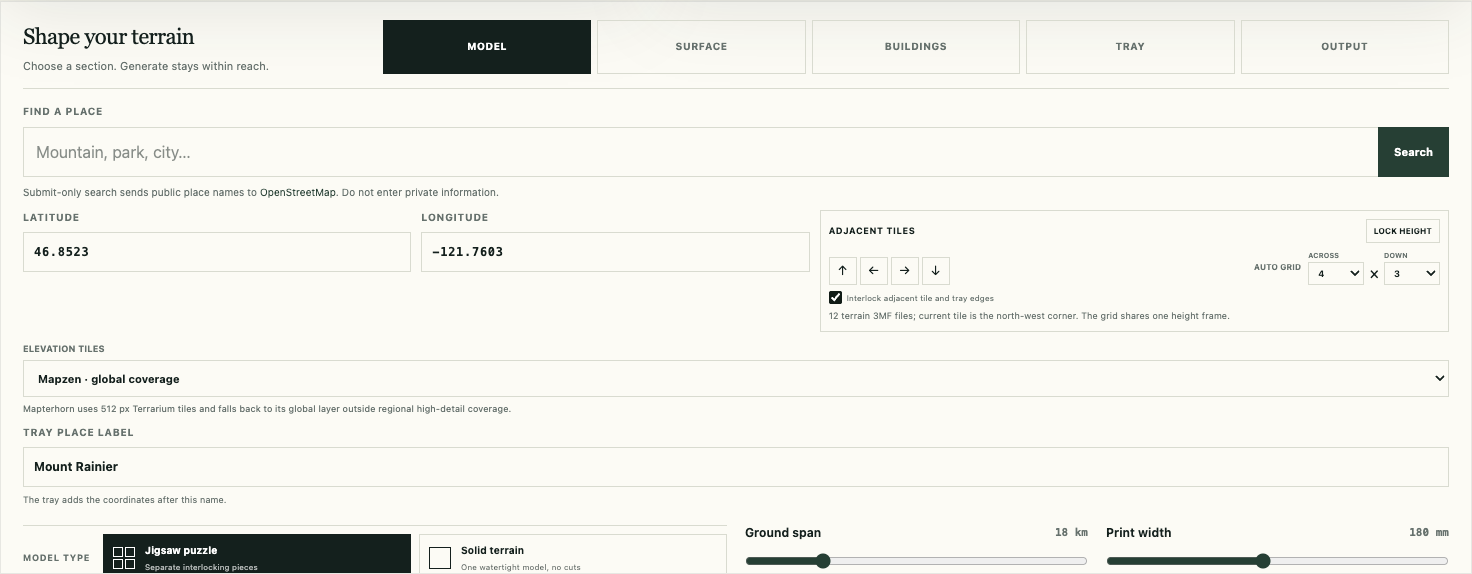
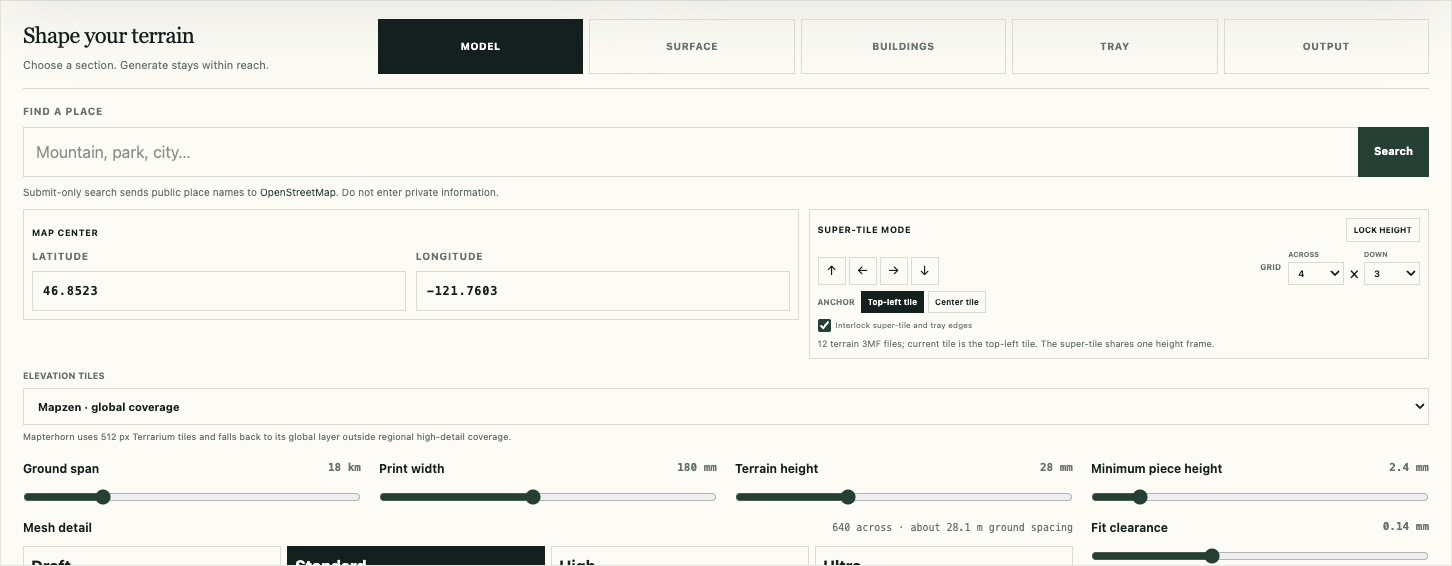
Update landing page for v0.3: super-tile anchoring, mesh budgets, Mapterhorn fine detail, OrcaSlicer, refreshed screenshots

diff --git a/index.html b/index.html
@@ -64,7 +64,7 @@
     <p class="eyebrow" style="margin-top:1rem;">Free desktop app for Windows, macOS &amp; Linux · no setup, no terminal</p>
   </div>
   <figure class="hero-shot">
-    <img src="assets/toposaic-studio.png?v=3" alt="TopoSaic light workspace showing the Mount Rainier map, interactive 3D terrain puzzle preview, and model controls" width="1200">
+    <img src="assets/toposaic-studio.png?v=4" alt="TopoSaic light workspace showing the Mount Rainier map, interactive 3D terrain puzzle preview, and model controls" width="1200">
     <figcaption>Choose a place beside a live, rotatable preview, then shape the model below — map zoom stays synced to the ground span, and the workspace divider drags to fit.</figcaption>
   </figure>
 </section>
@@ -91,12 +91,12 @@
     <div class="card">
       <div class="icon">🌐</div>
       <h3>Worldwide elevation</h3>
-      <p>Reads Mapzen Terrarium tiles from the AWS Open Data registry, with an optional Mapterhorn source for 512&nbsp;px regional detail up to zoom 17. All inputs cache under your OS user cache with atomic writes.</p>
+      <p>Reads Mapzen Terrarium tiles from the AWS Open Data registry, or Mapterhorn regional tiles up to zoom 17 — with a finest-detail mode that targets 0.25&nbsp;m samples for areas up to 2&nbsp;km wide. All inputs cache locally with atomic writes.</p>
     </div>
     <div class="card">
       <div class="icon">🛰</div>
       <h3>Live 3D relief preview</h3>
-      <p>A lit height mesh appears after a 64×64 sample settles — drag or use the arrow keys to orbit, scroll or pinch to zoom. A completed job swaps in the detailed mesh.</p>
+      <p>A lit height mesh appears after a 64×64 sample settles — drag to orbit, scroll or pinch to zoom. It shows the terrain height at true print scale, oriented to match the map, and a completed job swaps in the detailed mesh.</p>
     </div>
     <div class="card">
       <div class="icon">🎨</div>
@@ -129,7 +129,7 @@
 <section class="section">
   <p class="eyebrow">Surface controls</p>
   <h2>Tune colors and layers without leaving the workspace.</h2>
-  <p class="sub">Overlay detail is separate from the base terrain setting, so roads, buildings, water, and land-cover boundaries get a finer mesh without forcing it on plain terrain jobs.</p>
+  <p class="sub">One mesh budget spans the assembled model: Draft, Standard, High, and Ultra run 384 to 2,048 samples across it, so adding puzzle pieces never multiplies the density — and vector roads, water, and building edges add local mesh points only where they need them.</p>
   <figure class="feature-shot">
     <img src="assets/toposaic-surface-controls.png?v=3" alt="TopoSaic light workspace showing terrain colors, mapped water and road controls, and bridge structure choices" width="1600">
     <figcaption>Tune print colors, mapped water, road width and height, dense-network thinning, and floating or supported bridges in place.</figcaption>
@@ -139,10 +139,10 @@
 <section class="section" id="supertile">
   <p class="eyebrow">Super-tile mode</p>
   <h2>Bigger than your build plate.</h2>
-  <p class="sub">Export a grid of up to 12×12 print passes as one continuous terrain set. Every tile shares the same elevation datum and vertical scale — the first move locks the height frame, so the same real elevation prints at the same Z on every tile.</p>
+  <p class="sub">Export a grid of up to 12×12 print passes as one continuous terrain set. The map draws the full grid before export — anchored at the top-left or center tile — and every tile shares the same elevation datum and vertical scale: the first move locks the height frame, so the same real elevation prints at the same Z on every tile.</p>
   <figure class="feature-shot">
-    <img src="assets/toposaic-model-controls.png" alt="TopoSaic model controls showing compact model choices and a four-by-three adjacent tile grid" width="1600">
-    <figcaption>Move by one tile with the compass buttons, or export a straight 4×3 mosaic under one shared height frame.</figcaption>
+    <img src="assets/toposaic-model-controls.png?v=2" alt="TopoSaic model controls showing boxed map coordinates and a four-by-three super-tile grid" width="1600">
+    <figcaption>Set the map center beside the full super-tile controls, then export a straight 4×3 mosaic under one shared height frame. Center anchoring keeps a real tile at the chosen point.</figcaption>
   </figure>
   <div class="features">
     <div class="card">
@@ -185,7 +185,7 @@
   </div>
   <figure class="feature-shot">
     <img src="assets/toposaic-3mf-bambu-studio.jpg" alt="A generated Mount Rainier color 3MF opened in Bambu Studio" width="1600">
-    <figcaption>Straight into the slicer: the exported 3MF keeps the puzzle pieces and their forest, rock, snow, water, road, and building materials ready for a color print.</figcaption>
+    <figcaption>Straight into the slicer: the exported 3MF keeps the puzzle pieces and their forest, rock, snow, water, road, and building materials — Bambu Studio and OrcaSlicer load the six palette colors as filament assignments.</figcaption>
   </figure>
 </section>
 
